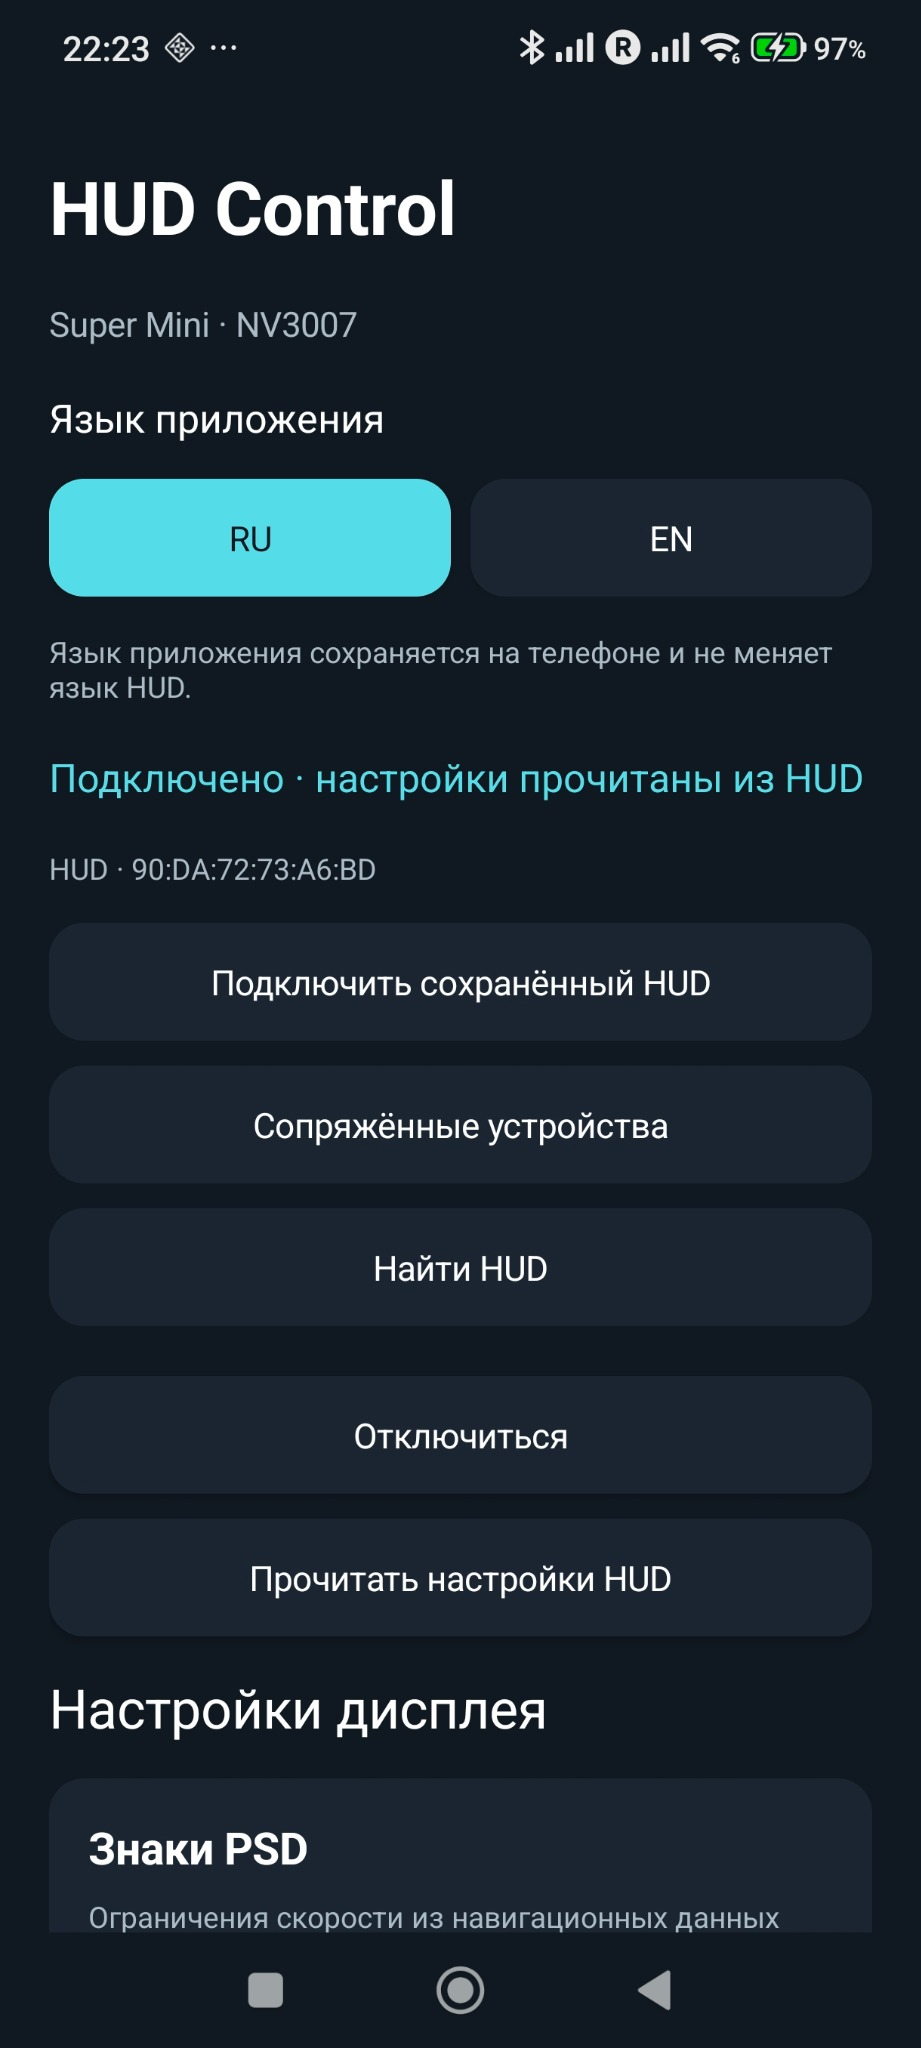
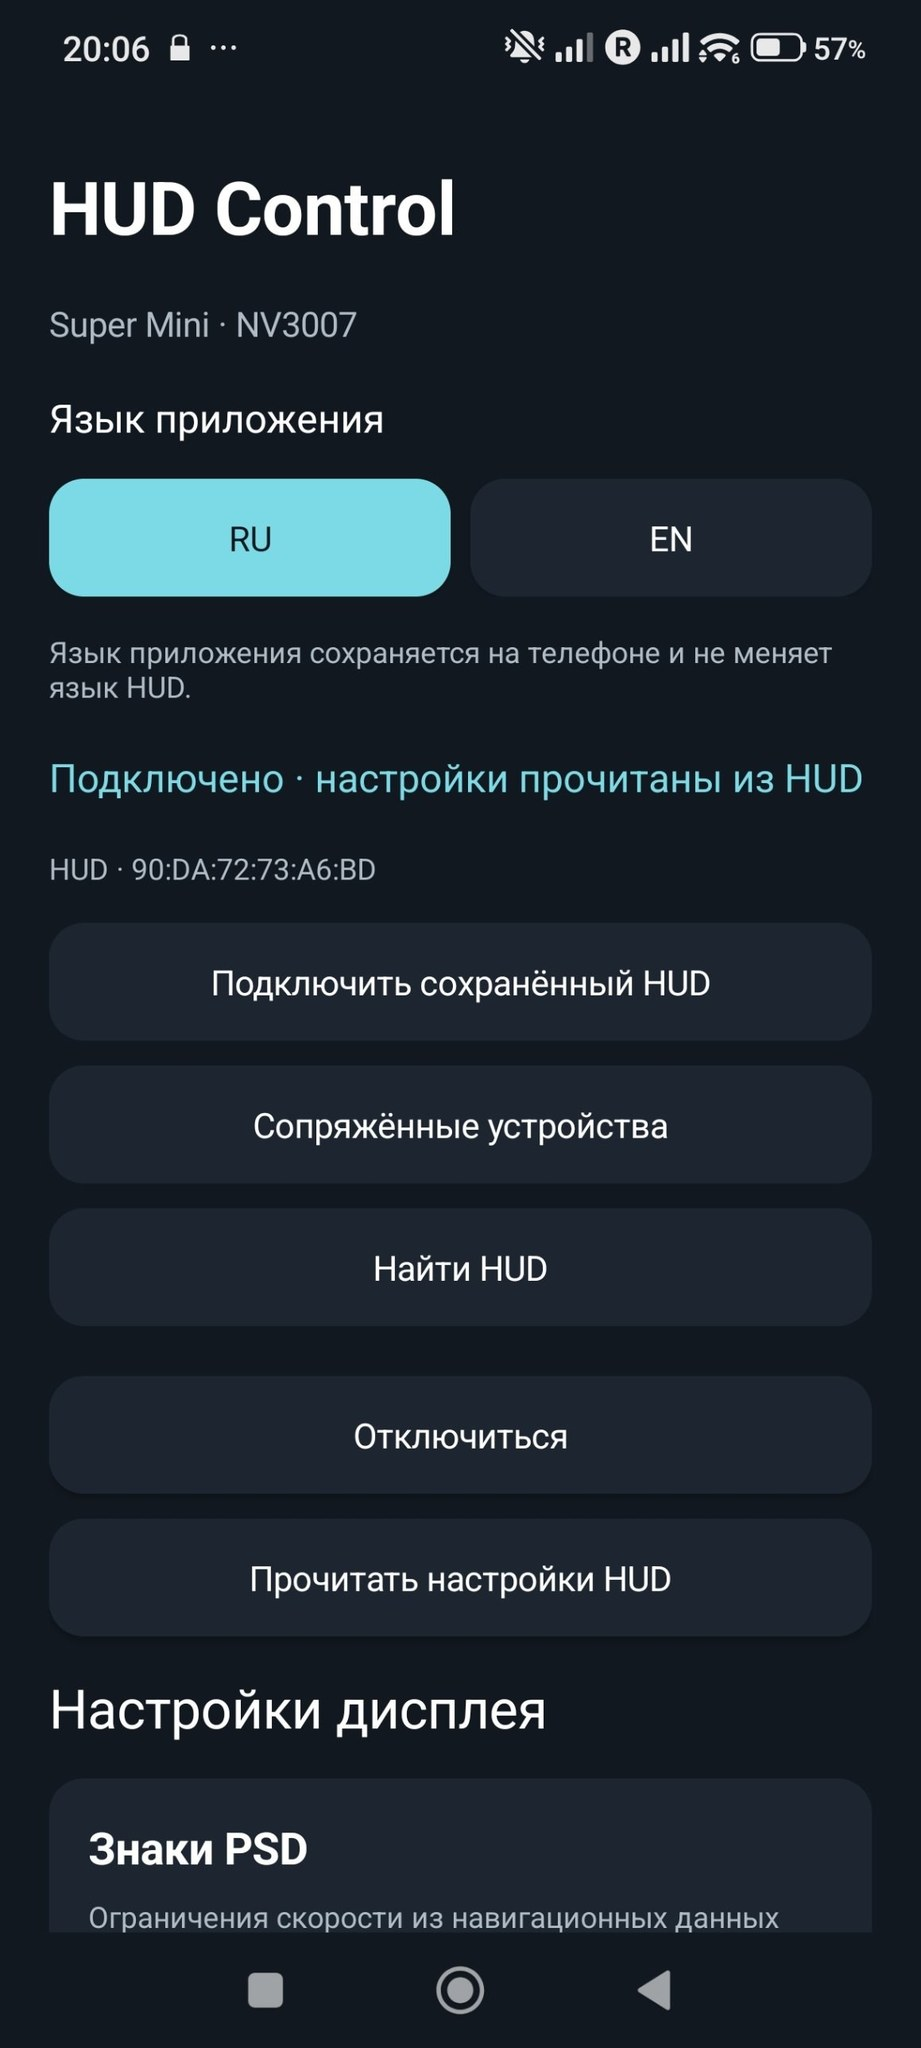
docs: new Russian app screenshots (1.6.0); README_ru uses them
Claude-Session: https://claude.ai/code/session_01XbC1F6pNtmcao3wMqEYqXB

diff --git a/README_ru.md b/README_ru.md
@@ -33,9 +33,9 @@
     <th>Обновление прошивки</th>
   </tr>
   <tr>
-    <td><img src="docs/images/app-connection-en.jpg" alt="HUD Control: выбор языка и подключение BLE" width="280"></td>
-    <td><img src="docs/images/app-settings-en.jpg" alt="HUD Control: PSD, VZE, язык HUD и единицы" width="280"></td>
-    <td><img src="docs/images/app-ota-en.jpg" alt="HUD Control: обновление прошивки по BLE OTA" width="280"></td>
+    <td><img src="docs/images/app-connection-ru.jpg" alt="HUD Control: выбор языка и подключение BLE" width="280"></td>
+    <td><img src="docs/images/app-settings-ru.jpg" alt="HUD Control: PSD, VZE, язык HUD и единицы" width="280"></td>
+    <td><img src="docs/images/app-ota-ru.jpg" alt="HUD Control: обновление прошивки по BLE OTA" width="280"></td>
   </tr>
 </table>
 
